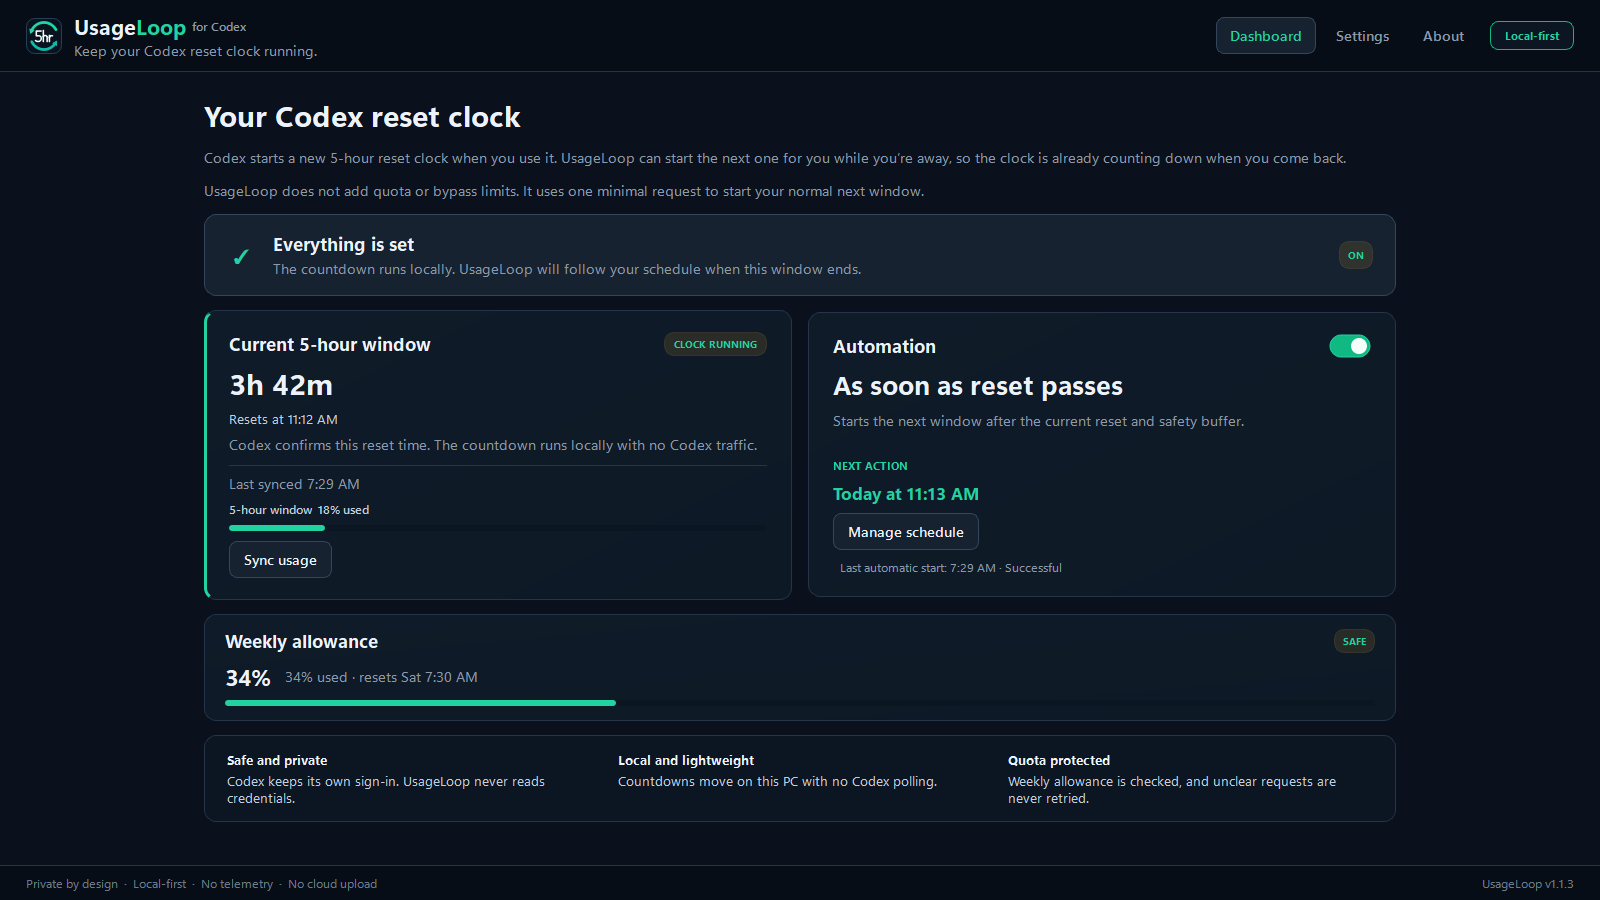
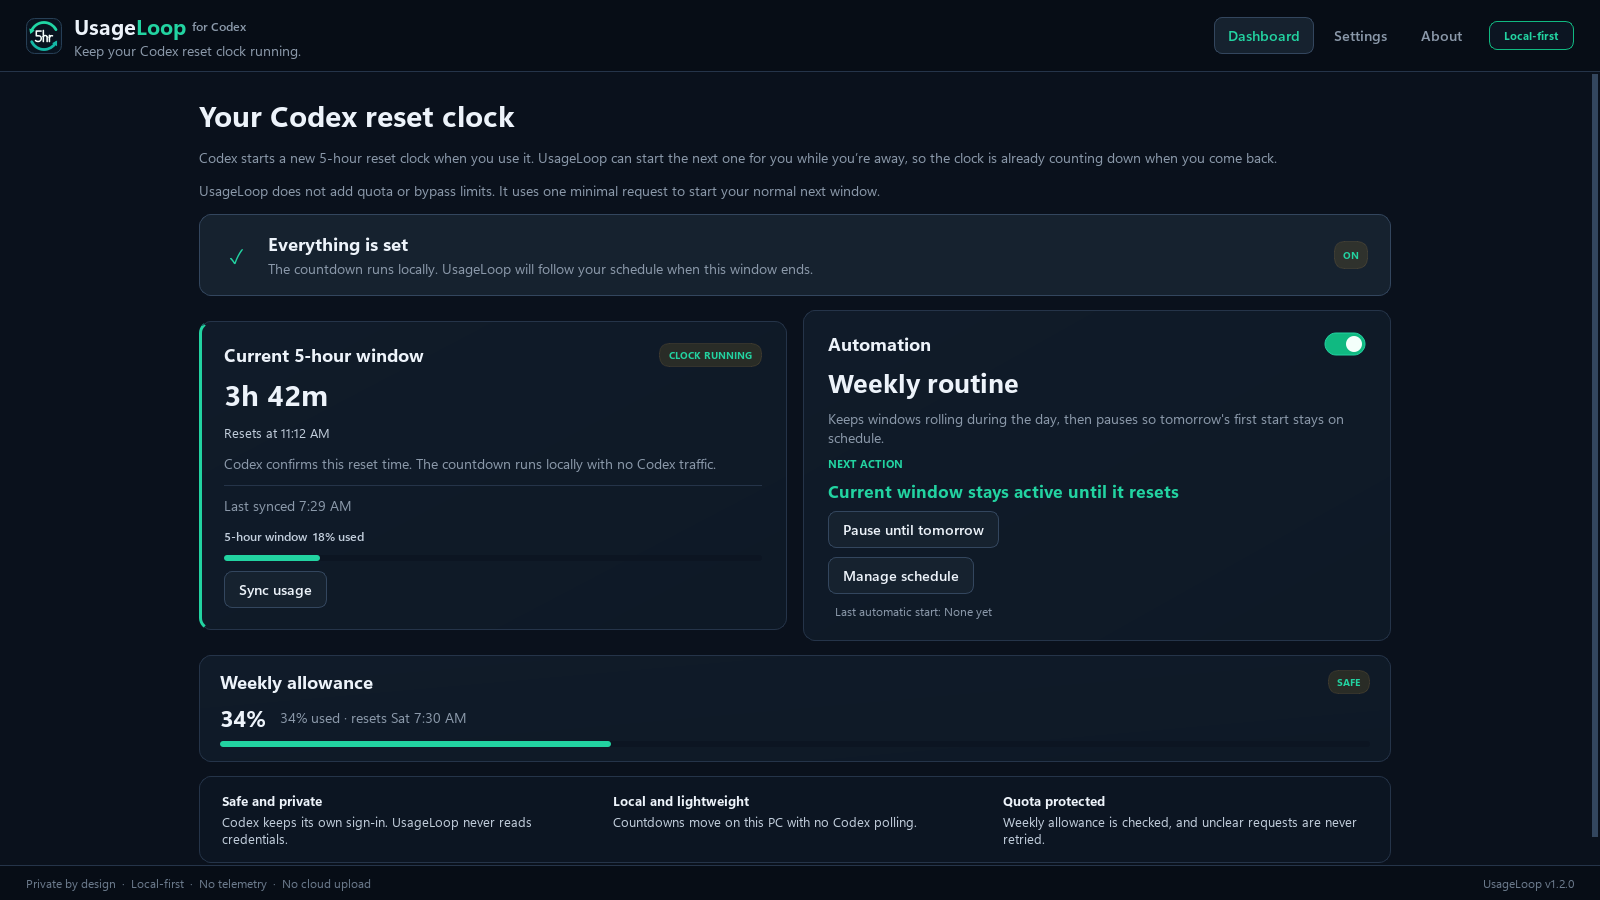
Clarify UsageLoop setup and refresh release links and screenshots

diff --git a/docs/index.html b/docs/index.html
@@ -13,14 +13,14 @@
   <meta property="og:title" content="UsageLoop for Codex">
   <meta property="og:description" content="Plan when your Codex day starts. Set weekday and weekend first-start times, keep windows rolling, and pause overnight. Local-first for Windows, no API key or telemetry.">
   <meta property="og:url" content="https://benthompsondev.github.io/usageloop/">
-  <meta property="og:image" content="https://benthompsondev.github.io/usageloop/screenshots/dashboard-1280x720.png">
-  <meta property="og:image:width" content="1280">
-  <meta property="og:image:height" content="720">
+  <meta property="og:image" content="https://benthompsondev.github.io/usageloop/screenshots/dashboard-1600x900.png">
+  <meta property="og:image:width" content="1600">
+  <meta property="og:image:height" content="900">
   <meta property="og:image:alt" content="UsageLoop dashboard showing a running Codex 5-hour window, weekly usage, and the next scheduled action">
   <meta name="twitter:card" content="summary_large_image">
   <meta name="twitter:title" content="UsageLoop for Codex">
   <meta name="twitter:description" content="Plan when your Codex day starts. Weekday and weekend start times, rolling windows, overnight pause. Local-first, no API key or telemetry.">
-  <meta name="twitter:image" content="https://benthompsondev.github.io/usageloop/screenshots/dashboard-1280x720.png">
+  <meta name="twitter:image" content="https://benthompsondev.github.io/usageloop/screenshots/dashboard-1600x900.png">
 
   <link rel="icon" href="favicon.ico" sizes="any">
   <link rel="stylesheet" href="styles.css">
@@ -39,7 +39,7 @@
     "url": "https://benthompsondev.github.io/usageloop/",
     "downloadUrl": "https://github.com/benthompsondev/usageloop/releases/latest/download/UsageLoop-Setup.exe",
     "codeRepository": "https://github.com/benthompsondev/usageloop",
-    "image": "https://benthompsondev.github.io/usageloop/screenshots/dashboard-1280x720.png",
+    "image": "https://benthompsondev.github.io/usageloop/screenshots/dashboard-1600x900.png",
     "author": {
       "@type": "Person",
       "name": "Ben Thompson",
@@ -70,12 +70,13 @@
       <div class="hero-copy">
         <p class="eyebrow">Local-first Codex window scheduler for Windows</p>
         <h1 id="hero-title">Plan when your Codex day starts.</h1>
-        <p class="lede">Your Codex 5-hour window only begins when you actually use Codex. UsageLoop starts the next one on a schedule you choose, with separate weekday and weekend times, so the clock is already running when you sit down.</p>
+        <p class="lede">If your Codex account has a 5-hour usage window, UsageLoop can start its next reset clock with one small request at a time you choose. Set weekday and weekend times so the clock is already running when you sit down.</p>
         <p class="boundary"><strong>It does not add quota or bypass limits.</strong> It starts the normal next window you were going to receive anyway.</p>
         <div class="hero-actions">
           <a class="button primary" href="https://github.com/benthompsondev/usageloop/releases/latest/download/UsageLoop-Setup.exe">Download for Windows</a>
           <a class="button secondary" href="https://github.com/benthompsondev/usageloop">View on GitHub</a>
         </div>
+        <p class="small">Free, open source. Requires signed-in Codex and an awake PC with UsageLoop running. The installer is unsigned; <a href="#download">read the download guidance</a>.</p>
         <ul class="trust-list" aria-label="UsageLoop trust highlights">
           <li>No API key</li>
           <li>No telemetry</li>
@@ -83,8 +84,8 @@
           <li>Open source</li>
         </ul>
       </div>
-      <a class="hero-shot" href="screenshots/dashboard-1280x720.png" aria-label="Open the full UsageLoop dashboard screenshot">
-        <img src="screenshots/dashboard-1280x720.png" width="1280" height="720" alt="UsageLoop dashboard showing a running Codex 5-hour window, weekly usage, and the next scheduled action">
+      <a class="hero-shot" href="screenshots/dashboard-1600x900.png" aria-label="Open the full UsageLoop dashboard screenshot">
+        <img src="screenshots/dashboard-1600x900.png" width="1600" height="900" alt="UsageLoop dashboard showing a running Codex 5-hour window, weekly usage, and the next scheduled action">
       </a>
     </section>
 
@@ -94,9 +95,9 @@
         <h2 id="why-title">Why the 5-hour window matters</h2>
       </div>
       <div class="prose">
-        <p>Your Codex 5-hour window starts when you actually use Codex. If the current window ends while you are away, the next reset clock normally waits until you come back and use Codex again.</p>
+        <p>On accounts with a 5-hour window, the next reset clock normally starts with the first request after the previous window ends. If that happens while you are away, the clock waits until you use Codex again.</p>
         <p>Say your window ends at 1:00 AM and UsageLoop starts the next one at 4:00 AM. When you sit down at 7:00 AM that clock has already run for three hours, so your next full reset arrives around <strong>9:00 AM instead of noon</strong>.</p>
-        <p>The quota does not change. The clock simply starts earlier, so more of the waiting happens while you are asleep instead of while you are trying to work.</p>
+        <p>You can work at 7:00 AM in either case if you have allowance left. Starting earlier brings the next reset forward if you use up that window. The start request uses some subscription allowance, and the weekly limit still applies.</p>
       </div>
     </section>
 
@@ -128,6 +129,7 @@
         <p><strong>Rolling days, quiet nights.</strong><br>After the first start, windows keep rolling as each one resets, then pause overnight so tomorrow begins on the time you chose.</p>
         <p><strong>Next routine, in plain numbers.</strong><br>The card shows the upcoming first start, the next reset five hours later, and when the overnight pause begins.</p>
       </div>
+      <p>Need a day off? In v1.2.0, <strong>Pause until tomorrow</strong> waits until tomorrow's configured first-start time without changing your routine. You can resume early from the Dashboard or tray.</p>
     </section>
 
     <section class="section boundary-section" aria-labelledby="not-title">
@@ -156,6 +158,7 @@
           <a href="https://github.com/benthompsondev/usageloop/releases/latest/download/UsageLoop-Setup.exe.sha256">SHA-256 checksum</a>
         </div>
         <p class="small"><strong>The installer is currently unsigned.</strong> Windows may show “Unknown publisher.” Download it only from the GitHub release and verify the checksum. If your organization blocks unsigned software, do not bypass that policy.</p>
+        <p class="small"><a href="https://github.com/benthompsondev/usageloop#install">Checksum commands and installation steps</a>. Already installed? Open Settings, scroll to Updates, and choose Check for updates. Updates are manual.</p>
       </div>
     </section>
 
@@ -190,6 +193,14 @@
         <h2 id="faq-title">Short answers</h2>
       </div>
       <div class="faq-list">
+        <details>
+          <summary>Who is this useful for?</summary>
+          <p>Windows Codex users whose account shows a 5-hour window and who want its next reset earlier in their workday. If your account only shows a weekly limit, the 5-hour scheduling feature does not apply. OpenAI controls the limits and can change their behavior.</p>
+        </details>
+        <details>
+          <summary>Does starting a window use my allowance?</summary>
+          <p>Yes. An automatic start sends one small Codex request through your existing sign-in. That uses subscription allowance. Watching the local countdown and checking GitHub for updates do not send a model request.</p>
+        </details>
         <details>
           <summary>Does UsageLoop give me more Codex quota?</summary>
           <p>No. It cannot add quota or bypass either limit. It can only start the normal next 5-hour window after the current one ends.</p>

diff --git a/scripts/capture-ui-screenshots.py b/scripts/capture-ui-screenshots.py
@@ -91,6 +91,12 @@ def main() -> int:
         )
         window.clock_timer.stop()
         window.automation_timer.stop()
+        # Show the weekly routine and pause control in the public dashboard.
+        window.schedule_mode.setCurrentIndex(window.schedule_mode.findData("weekly"))
+        controller.set_weekly_start_times(
+            ((4, 0), (4, 0), (4, 0), (4, 0), (4, 0), (5, 0), (5, 0))
+        )
+        window._sync_weekly_editor()
         window.refresh_clock(now=now)
         for width, height in (
             (1024, 768),
@@ -101,9 +107,9 @@ def main() -> int:
         ):
             window.resize(width, height)
             save(window, args.output / f"dashboard-{width}x{height}.png", app)
-        # Use the 1366x768 composition for the README hero so the current
+        # Use the 1600x900 composition for the README hero so the current
         # window, schedule, and weekly guard are visible in one frame.
-        window.resize(1366, 768)
+        window.resize(1600, 900)
         save(window, args.output / "dashboard.png", app)
 
         window.resize(1040, 720)

diff --git a/README.md b/README.md
@@ -4,11 +4,12 @@
 
 **Plan when your Codex day starts.**
 
-Your Codex 5-hour window only begins when you actually use Codex. If a window
-ends while you are asleep, the next reset clock sits idle until you come back,
-so the first stretch of your session is spent waiting instead of working.
+For Codex accounts with a five-hour usage window, the next reset clock normally
+starts with the first request after the previous window ends. Start at 7:00 AM
+and the next reset is around noon. Start at 4:00 AM and it is around 9:00 AM.
 
-UsageLoop starts that next window for you. Pick one time, separate weekday and
+UsageLoop can start that next window with one small Codex request, which uses
+some of your subscription allowance. Pick one time, separate weekday and
 weekend times, or a different time for every day of the week. It keeps windows
 rolling through the day, pauses overnight, and shows you when the next one
 begins.
@@ -17,12 +18,20 @@ UsageLoop does not add quota or bypass limits. It starts the normal next window
 you were going to receive anyway, earlier. It is a local-first Windows app, with
 a Linux beta available for testing.
 
-**[Download for Windows — Stable](https://github.com/benthompsondev/usageloop/releases/download/v1.1.4/UsageLoop-Setup.exe)**
-· **[Download for Linux — Beta](https://github.com/benthompsondev/usageloop/releases/tag/v1.1.0-beta.1)**
-· [Windows release notes](https://github.com/benthompsondev/usageloop/releases/tag/v1.1.4)
+**[Download for Windows (stable)](https://github.com/benthompsondev/usageloop/releases/latest/download/UsageLoop-Setup.exe)**
+· **[Download for Linux (beta)](https://github.com/benthompsondev/usageloop/releases/tag/v1.1.0-beta.1)**
+· [Windows release notes](https://github.com/benthompsondev/usageloop/releases/latest)
 · [Report a problem](https://github.com/benthompsondev/usageloop/issues/new?template=bug_report.yml)
 
+Requires Codex already installed and signed in. Your PC must be awake and
+signed in, with UsageLoop running, for a scheduled start. The Windows installer
+is unsigned; [check the download and SmartScreen guidance](#windows) before
+running it. If your account has no five-hour window, this scheduling feature
+does not apply.
+
 ![UsageLoop dashboard showing an active five-hour window and the next scheduled action](docs/screenshots/dashboard.png)
+
+Screenshots show v1.2.0 with synthetic usage data.
 
 - Native x64-compatible Windows app with a quiet system tray mode
 - Free and open source under the MIT license
@@ -86,12 +95,15 @@ You need:
 - an x64-compatible Windows PC;
 - the Codex desktop app or Codex CLI installed and already signed in.
 
-Download the stable v1.1.4 per-user installer:
+Download the latest stable per-user installer and its matching checksum:
 
-- [UsageLoop-Setup.exe](https://github.com/benthompsondev/usageloop/releases/download/v1.1.4/UsageLoop-Setup.exe)
-- [UsageLoop-Setup.exe.sha256](https://github.com/benthompsondev/usageloop/releases/download/v1.1.4/UsageLoop-Setup.exe.sha256)
+- [UsageLoop-Setup.exe](https://github.com/benthompsondev/usageloop/releases/latest/download/UsageLoop-Setup.exe)
+- [UsageLoop-Setup.exe.sha256](https://github.com/benthompsondev/usageloop/releases/latest/download/UsageLoop-Setup.exe.sha256)
 
 The installer does not need administrator rights or change the global PATH.
+Already installed? Open **Settings**, scroll to **Updates**, and choose
+**Check for updates**. Checks and installation are manual; UsageLoop does not
+update itself in the background.
 
 > [!IMPORTANT]
 > The current installer is not code-signed. Windows Defender SmartScreen may
@@ -136,14 +148,20 @@ available.
 
 ## What UsageLoop does
 
-Your Codex five-hour window starts when you actually use Codex. If the current
-window ends while you're away, the next reset clock normally waits until you
-come back and use Codex again.
+On accounts that expose a five-hour window, its clock normally starts when you
+use Codex. If the current window ends while you're away, the next reset clock
+normally waits until you come back and use Codex again.
 
 UsageLoop can start that next window for you with one minimal request. Your
 current window ends at 1:00 AM. UsageLoop starts the next one at 4:00 AM. When
 you sit down at 7:00 AM, that reset clock has already been running for three
 hours, so your next full reset arrives around 9:00 AM instead of noon.
+
+You can still work at 7:00 AM in either case if you have allowance left. The
+benefit is an earlier next reset if you use up that window, not extra quota or
+five hours of continuous model work. The weekly limit still applies. OpenAI
+controls these limits, and account behavior can change; check the limits your
+Codex app actually shows.
 
 The dashboard shows:
 

diff --git a/docs/1.2.0-validation.md b/docs/1.2.0-validation.md
@@ -1,5 +1,14 @@
 # UsageLoop 1.2.0 validation
 
+## Published status
+
+[v1.2.0](https://github.com/benthompsondev/usageloop/releases/tag/v1.2.0) was
+published September 3, 2026 from `adccbce`.
+[Windows verification](https://github.com/benthompsondev/usageloop/actions/runs/33795815335)
+passed the 445-test suite and all 11 install/upgrade scenarios. The notes below
+record the earlier local validation and pre-publication handoff; they are not
+the current release status.
+
 ## Changes
 
 - Pause Weekly routine or Once each day until tomorrow's configured first start.
@@ -33,7 +42,7 @@ update adapters. Ctrl+Shift+T opens the actual tray menu for inspection when its
 icon is hidden. Its build needs the same system-ICU exclusions as
 `packaging/UsageLoop.spec`. It is not a clean-install or live-provider proof.
 
-## Still required before publication
+## Pre-publication handoff (historical)
 
 Explicit push/release authorization is required by AGENTS.md. Run the Windows
 CI/package acceptance matrix, including 1.1.4 and the recent upgrade chain,

diff --git a/docs/RELEASING.md b/docs/RELEASING.md
@@ -33,6 +33,10 @@ For a release:
 4. Attach the installer and its checksum without renaming either.
 5. Install the uploaded artifact on a clean Windows machine.
 6. Confirm `/releases/latest` returns the tag and both exact assets.
+7. Check the live README and website download, checksum, and release-note links.
+   Stable Windows links should use `/releases/latest`; keep platform prereleases
+   pinned separately. Refresh the screenshots used by those pages when the
+   visible workflow changes, and check the installed app's manual updater.
 
 Write release notes for the person using the app. Lead with what changed for
 them, then add the technical detail that makes the claim trustworthy.
